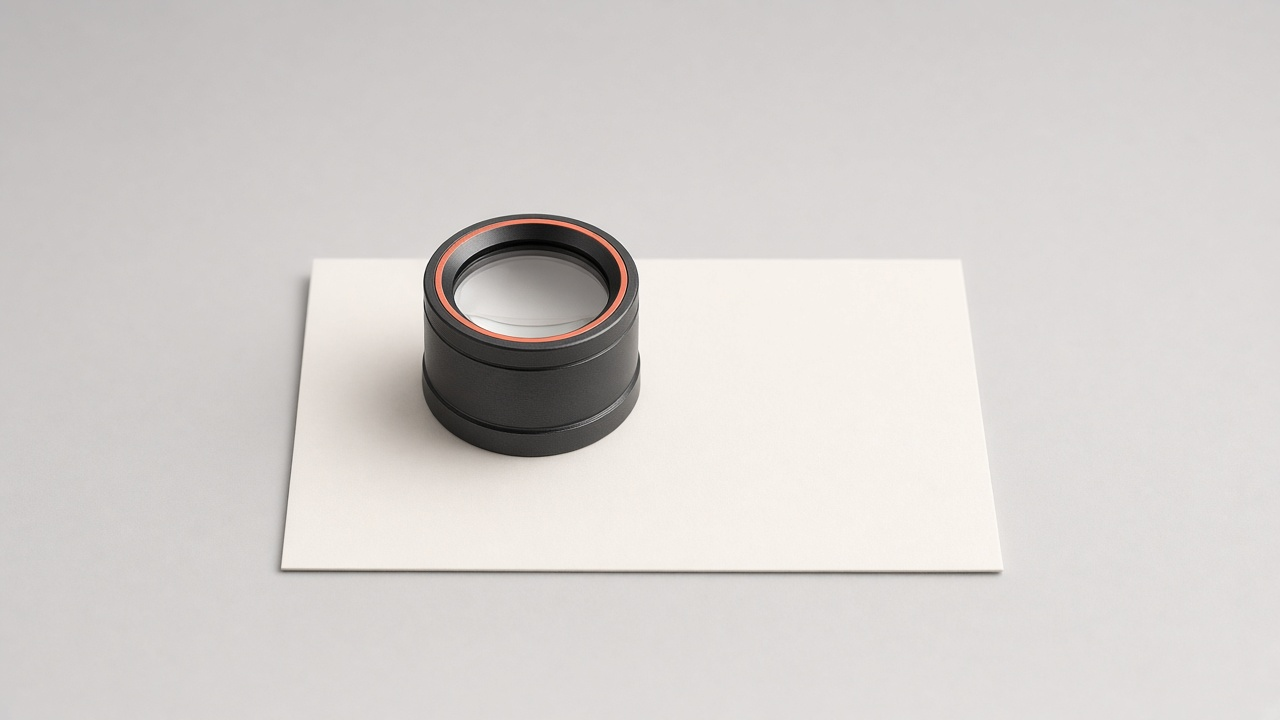
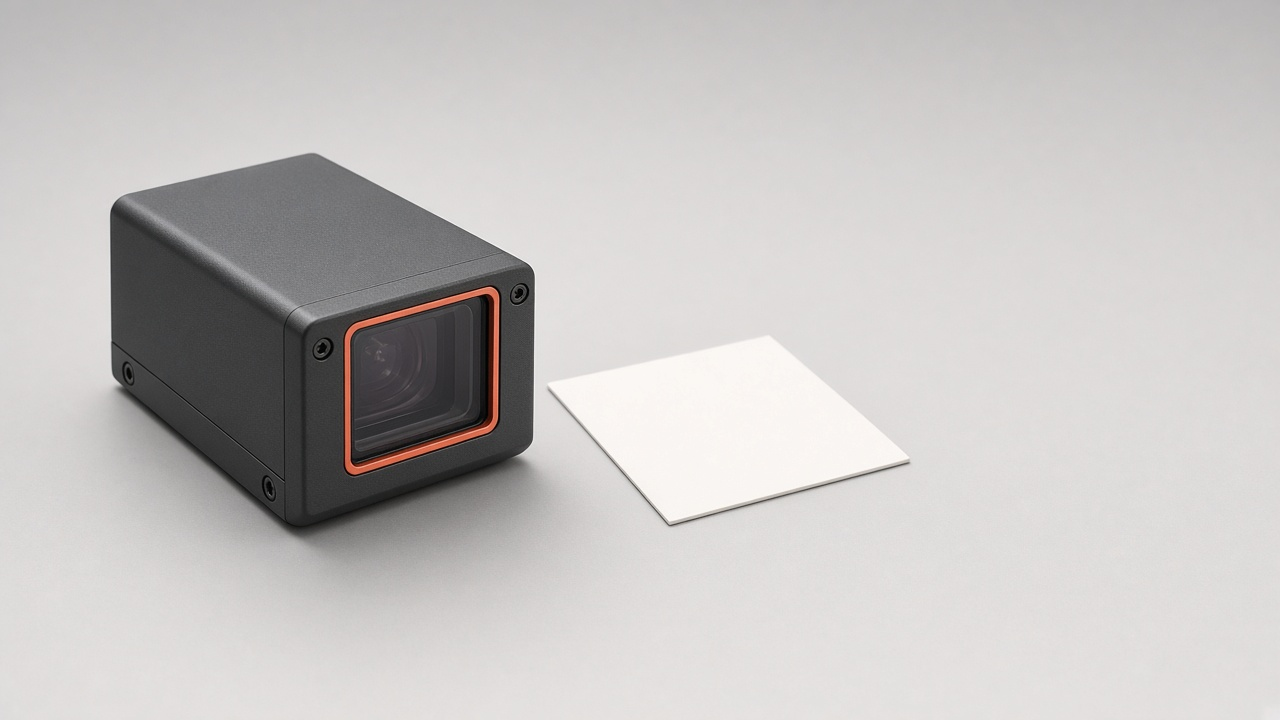
Replace the assessment still with a machine-vision sensor.

Changed region(s): [[0.0625, 0.2139, 0.7812, 0.825]]

diff --git a/index.html b/index.html
@@ -67,7 +67,7 @@
   <div class="steps-progress" aria-hidden="true"><span></span></div>
   <div class="workflow-panels">
    <article class="workflow-panel" id="panel-1" role="tabpanel" aria-labelledby="step-1" tabindex="0"><img class="step-illustration" src="./assets/sono-step-plane.jpg" width="1600" height="900" alt="探頭鏡頭射出一道光，對應找到標準切面"><div class="step-copy"><p class="panel-index">01 / ACQUISITION</p><h3 data-en="Find the plane.">找到標準切面</h3><p data-en="Shoulder ultrasound plane guidance.">從肩部取像導引開始。</p><details class="technical-note"><summary data-en="Development details">開發說明</summary><p data-en="Plane recognition and device compatibility require validation.">切面辨識效能與不同設備的相容性，仍需驗證。</p></details></div></article>
-   <article class="workflow-panel" id="panel-2" role="tabpanel" aria-labelledby="step-2" tabindex="0" hidden><img class="step-illustration" src="./assets/sono-step-intelligence.jpg" width="1600" height="900" alt="放大鏡放在空白卡片上，對應超智評估"><div class="step-copy"><p class="panel-index">02 / SI ASSESSMENT</p><h3 data-en="Assess. Review.">評估，也能修正</h3><p data-en="Reviewable assessment support.">讓影像資訊可檢查、可修正。</p><details class="technical-note"><summary data-en="Development details">開發說明</summary><p data-en="Assessment agreement and error require prospective evaluation.">評估一致性與誤差，需依正式研究設計評估。</p></details></div></article>
+   <article class="workflow-panel" id="panel-2" role="tabpanel" aria-labelledby="step-2" tabindex="0" hidden><img class="step-illustration" src="./assets/sono-step-intelligence.jpg" width="1600" height="900" alt="機器視覺感測器對著空白卡片，對應超智評估"><div class="step-copy"><p class="panel-index">02 / SI ASSESSMENT</p><h3 data-en="Assess. Review.">評估，也能修正</h3><p data-en="Reviewable assessment support.">讓影像資訊可檢查、可修正。</p><details class="technical-note"><summary data-en="Development details">開發說明</summary><p data-en="Assessment agreement and error require prospective evaluation.">評估一致性與誤差，需依正式研究設計評估。</p></details></div></article>
    <article class="workflow-panel" id="panel-3" role="tabpanel" aria-labelledby="step-3" tabindex="0" hidden><img class="step-illustration" src="./assets/sono-step-report.jpg" width="1600" height="900" alt="一張只有橫線的紙，對應報告草稿"><div class="step-copy"><p class="panel-index">03 / DOCUMENTATION</p><h3 data-en="Build the draft.">銜接報告草稿</h3><p data-en="Bring findings into structured documentation.">將觀察與評估整理成紀錄。</p><details class="technical-note"><summary data-en="Development details">開發說明</summary><p data-en="Completeness and time savings require clinical workflow validation.">報告完整度與時間效益須經驗證；草稿不等同診斷。</p></details></div></article>
    <article class="workflow-panel" id="panel-4" role="tabpanel" aria-labelledby="step-4" tabindex="0" hidden><img class="step-illustration" src="./assets/sono-step-sign.jpg" width="1600" height="900" alt="筆懸在空白卡片上，對應醫師簽章"><div class="step-copy"><p class="panel-index">04 / CLINICAL REVIEW</p><h3 data-en="The physician decides.">醫師保留決定權</h3><p data-en="Review, correct and sign off.">審閱、修正，最後簽章。</p><details class="technical-note"><summary data-en="Development details">開發說明</summary><p data-en="Local deployment and HIS integration require site-specific assessment.">院內部署與 HIS 串接須依資安、設備及場域需求評估。</p></details></div></article>
   </div>
